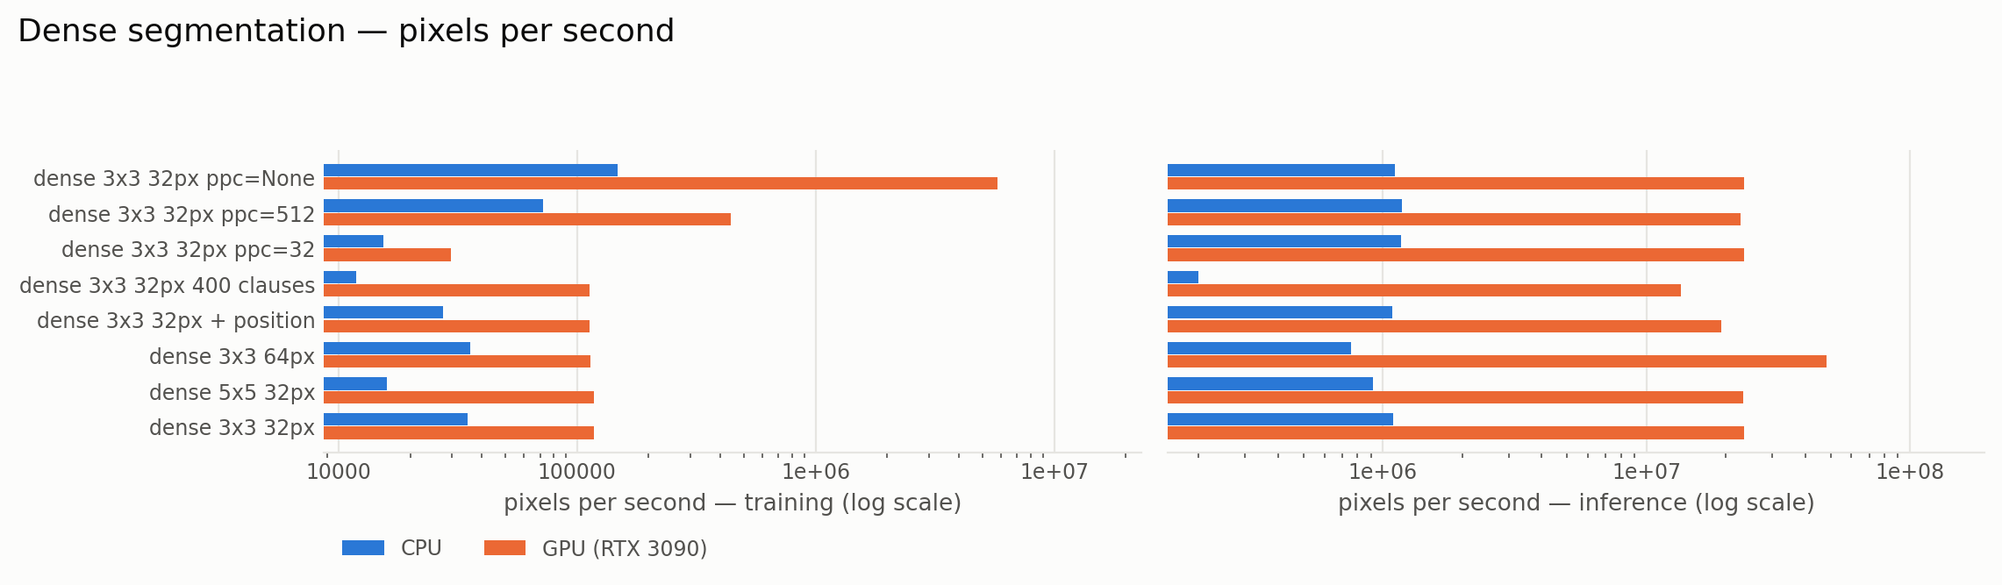
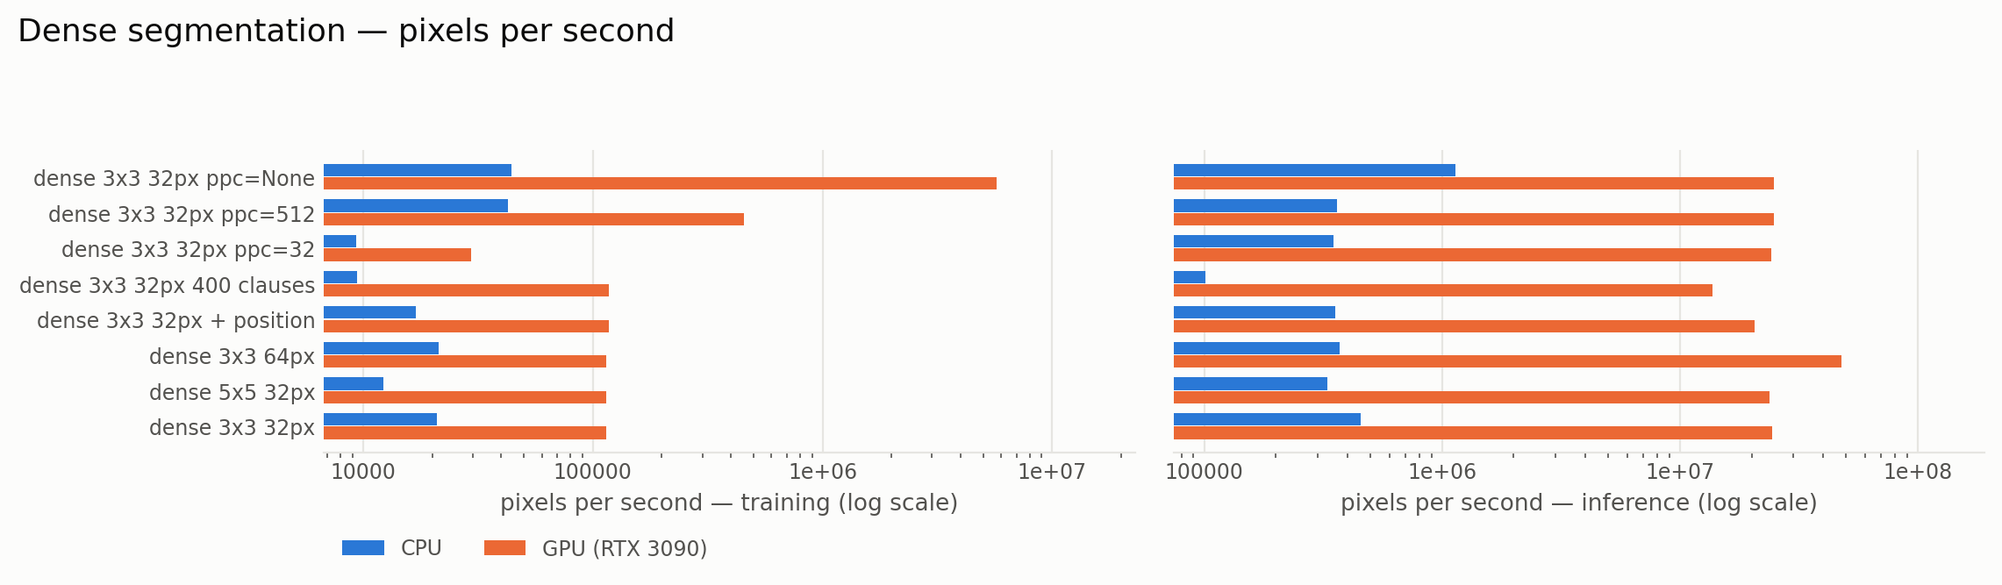
new benchmark

diff --git a/docs/cpu-vs-gpu.md b/docs/cpu-vs-gpu.md
@@ -10,9 +10,9 @@ Every number on this page comes from one run of `benchmarks/run_benchmarks.sh` o
 | GPU 0 | NVIDIA GeForce RTX 3090 |
 | GPU 1 | NVIDIA GeForce RTX 3080 |
 | PyTorch | 2.10.0+cu128 / CUDA 12.8 |
-| torchtsetlin | 0.3.1 |
+| torchtsetlin | 0.5.0 |
 | Python | 3.10.11 |
-| measured | 2026-10-12 21:40:39 |
+| measured | 2026-10-24 20:33:41 |
 
 
 !!! note "How to read these"
@@ -28,76 +28,76 @@ Every number on this page comes from one run of `benchmarks/run_benchmarks.sh` o
 ![Throughput vs batch size](assets/benchmarks/throughput-vs-batch.png#only-light)
 ![Throughput vs batch size](assets/benchmarks/throughput-vs-batch_dark.png#only-dark)
 
-One `update()` call touches every automaton in the machine, so its cost depends far more on the size of the machine than on how many examples are in the batch. Feeding the GPU more examples per call is therefore nearly free: training throughput rises from 427 examples/s at batch 1 to 220,028 at batch 4096. At batch 256 the same model trains 87,869 examples/s on the GPU against 406 on the CPU (216×).
+One `update()` call touches every automaton in the machine, so its cost depends far more on the size of the machine than on how many examples are in the batch. Feeding the GPU more examples per call is therefore nearly free: training throughput rises from 415 examples/s at batch 1 to 217,571 at batch 4096. At batch 256 the same model trains 85,839 examples/s on the GPU against 3,808 on the CPU (23×).
 
-The Noisy-XOR scale machine in the bottom row is the counter-example: 20 clauses over 12 features is less work than a kernel launch, so only past batch 1024 does the GPU pull ahead. Small machines belong on the CPU.
+The Noisy-XOR scale machine in the bottom row is the counter-example: 20 clauses over 12 features is less work than a kernel launch, so only past batch 4 does the GPU pull ahead. Small machines belong on the CPU.
 
 ??? abstract "Batch size — MNIST scale (784 features, 500 clauses/class)"
 
     | batch | CPU train ex/s | GPU train ex/s | train speedup | CPU infer ex/s | GPU infer ex/s | infer speedup |
     |---|---|---|---|---|---|---|
-    | 1 | 14 | 427 | 30.5× | 598 | 4,196 | 7.0× |
-    | 2 | 25 | 863 | 34.2× | 4,704 | 8,182 | 1.7× |
-    | 4 | 40 | 1,725 | 42.8× | 5,791 | 16,432 | 2.8× |
-    | 8 | 60 | 3,441 | 57.3× | 9,568 | 33,415 | 3.5× |
-    | 16 | 87 | 6,844 | 78.9× | 10,820 | 66,762 | 6.2× |
-    | 32 | 118 | 13,456 | 114.1× | 15,346 | 132,358 | 8.6× |
-    | 64 | 177 | 25,666 | 144.8× | 25,607 | 254,309 | 9.9× |
-    | 128 | 268 | 49,143 | 183.7× | 37,049 | 507,533 | 13.7× |
-    | 256 | 406 | 87,869 | 216.5× | 44,836 | 1,036,162 | 23.1× |
-    | 512 | 600 | 133,736 | 222.7× | 49,559 | 982,200 | 19.8× |
-    | 1,024 | 825 | 135,655 | 164.3× | 50,099 | 1,012,965 | 20.2× |
-    | 2,048 | 1,562 | 163,199 | 104.5× | 38,611 | 1,045,744 | 27.1× |
-    | 4,096 | 3,572 | 220,028 | 61.6× | 31,372 | 1,059,242 | 33.8× |
+    | 1 | 236 | 415 | 1.8× | 625 | 4,514 | 7.2× |
+    | 2 | 535 | 830 | 1.6× | 1,997 | 8,725 | 4.4× |
+    | 4 | 783 | 1,659 | 2.1× | 3,908 | 17,552 | 4.5× |
+    | 8 | 902 | 3,309 | 3.7× | 4,550 | 35,782 | 7.9× |
+    | 16 | 1,330 | 6,558 | 4.9× | 7,776 | 71,604 | 9.2× |
+    | 32 | 1,875 | 12,893 | 6.9× | 12,048 | 141,574 | 11.8× |
+    | 64 | 2,307 | 24,861 | 10.8× | 18,564 | 275,440 | 14.8× |
+    | 128 | 2,274 | 47,707 | 21.0× | 25,424 | 551,375 | 21.7× |
+    | 256 | 3,808 | 85,839 | 22.5× | 33,532 | 1,006,921 | 30.0× |
+    | 512 | 1,891 | 131,028 | 69.3× | 38,146 | 983,199 | 25.8× |
+    | 1,024 | 375 | 134,214 | 357.9× | 34,337 | 999,139 | 29.1× |
+    | 2,048 | 398 | 162,212 | 407.9× | 22,258 | 1,043,902 | 46.9× |
+    | 4,096 | 413 | 217,571 | 527.1× | 20,554 | 1,056,509 | 51.4× |
 
 ??? abstract "Batch size — Noisy-XOR scale (12 features, 10 clauses/class)"
 
     | batch | CPU train ex/s | GPU train ex/s | train speedup | CPU infer ex/s | GPU infer ex/s | infer speedup |
     |---|---|---|---|---|---|---|
-    | 1 | 2,005 | 856 | 0.4× | 9,060 | 4,243 | 0.5× |
-    | 4 | 7,668 | 3,425 | 0.4× | 32,932 | 16,843 | 0.5× |
-    | 16 | 27,988 | 13,306 | 0.5× | 127,638 | 66,415 | 0.5× |
-    | 64 | 101,867 | 53,237 | 0.5× | 485,903 | 261,939 | 0.5× |
-    | 256 | 342,488 | 212,026 | 0.6× | 1,661,668 | 1,043,140 | 0.6× |
-    | 1,024 | 814,544 | 844,508 | 1.0× | 4,119,959 | 4,189,408 | 1.0× |
+    | 1 | 914 | 842 | 0.9× | 9,118 | 4,490 | 0.5× |
+    | 4 | 3,247 | 3,374 | 1.0× | 31,705 | 17,955 | 0.6× |
+    | 16 | 12,563 | 13,471 | 1.1× | 121,723 | 71,267 | 0.6× |
+    | 64 | 47,768 | 53,734 | 1.1× | 464,140 | 282,078 | 0.6× |
+    | 256 | 137,059 | 214,356 | 1.6× | 1,553,292 | 1,128,060 | 0.7× |
+    | 1,024 | 322,342 | 856,844 | 2.7× | 3,751,614 | 4,507,826 | 1.2× |
 
 ## How much the GPU buys you
 
 ![How much the GPU buys you](assets/benchmarks/gpu-speedup.png#only-light)
 ![How much the GPU buys you](assets/benchmarks/gpu-speedup_dark.png#only-dark)
 
-The speedup is not one number. It grows with batch size because the CPU pays the per-clause cost serially while the GPU hides it, peaks at about 223× around batch 512, and falls back to 62× at batch 4096, where the CPU finally amortises its own vectorisation over a long batch. Inference behaves differently again: the CPU forward pass is already cheap, so the gap there tops out at 34× — worth having, but not the same kind of difference.
+The speedup is not one number. It grows with batch size because the CPU pays the per-clause cost serially while the GPU hides it, peaks at about 527× around batch 4096, and holds from there. Inference behaves differently again: the CPU forward pass is already cheap, so the gap there tops out at 51× — worth having, but not the same kind of difference.
 
 ## Throughput vs model size
 
 ![Throughput vs model size](assets/benchmarks/throughput-vs-model-size.png#only-light)
 ![Throughput vs model size](assets/benchmarks/throughput-vs-model-size_dark.png#only-dark)
 
-Both axes cost the same thing — the update is `n_clauses × 2 × n_features` element-wise work — so both curves fall roughly as `1/x`. The CPU falls off immediately; the GPU stays flat until the machine is big enough to fill it, which is why the gap *widens* with model size: 50× at 50 clauses/class against 273× at 4000; 69× at 128 features against 287× at 8192. Big machines are exactly the ones worth moving to a GPU.
+Both axes cost the same thing — the update is `n_clauses × 2 × n_features` element-wise work — so both curves fall roughly as `1/x`. The CPU falls off immediately; the GPU stays flat until the machine is big enough to fill it, which is why the gap *widens* with model size: 37× at 50 clauses/class against 23× at 4000; 22× at 128 features against 16× at 8192. Big machines are exactly the ones worth moving to a GPU.
 
 ??? abstract "Clause budget (784 features, batch 256)"
 
     | clauses/class | CPU train ex/s | GPU train ex/s | train speedup | CPU infer ex/s | GPU infer ex/s | infer speedup |
     |---|---|---|---|---|---|---|
-    | 50 | 4,317 | 214,398 | 49.7× | 270,425 | 1,035,221 | 3.8× |
-    | 100 | 2,171 | 193,714 | 89.2× | 198,824 | 1,033,967 | 5.2× |
-    | 250 | 843 | 131,802 | 156.3× | 101,325 | 1,041,135 | 10.3× |
-    | 500 | 411 | 88,661 | 215.9× | 45,514 | 1,002,631 | 22.0× |
-    | 1,000 | 196 | 50,089 | 255.6× | 16,232 | 536,367 | 33.0× |
-    | 2,000 | 96 | 25,917 | 268.6× | 5,185 | 260,242 | 50.2× |
-    | 4,000 | 48 | 13,162 | 272.7× | 2,176 | 132,661 | 61.0× |
+    | 50 | 5,590 | 209,061 | 37.4× | 238,356 | 1,108,202 | 4.6× |
+    | 100 | 12,312 | 189,082 | 15.4× | 157,397 | 1,105,896 | 7.0× |
+    | 250 | 5,928 | 126,883 | 21.4× | 68,018 | 1,104,184 | 16.2× |
+    | 500 | 3,832 | 84,393 | 22.0× | 33,363 | 1,014,205 | 30.4× |
+    | 1,000 | 1,736 | 48,920 | 28.2× | 14,576 | 535,050 | 36.7× |
+    | 2,000 | 828 | 25,678 | 31.0× | 5,992 | 259,310 | 43.3× |
+    | 4,000 | 558 | 13,099 | 23.5× | 2,024 | 132,470 | 65.5× |
 
 ??? abstract "Feature count (500 clauses/class, batch 256)"
 
     | features | CPU train ex/s | GPU train ex/s | train speedup | CPU infer ex/s | GPU infer ex/s | infer speedup |
     |---|---|---|---|---|---|---|
-    | 128 | 3,035 | 210,639 | 69.4× | 185,183 | 1,076,020 | 5.8× |
-    | 256 | 1,380 | 164,441 | 119.2× | 110,134 | 1,059,144 | 9.6× |
-    | 512 | 624 | 115,630 | 185.2× | 55,644 | 1,065,061 | 19.1× |
-    | 1,024 | 304 | 73,440 | 241.5× | 33,927 | 806,665 | 23.8× |
-    | 2,048 | 152 | 39,913 | 262.6× | 18,598 | 411,893 | 22.1× |
-    | 4,096 | 76 | 21,310 | 279.3× | 8,715 | 217,643 | 25.0× |
-    | 8,192 | 37 | 10,721 | 287.3× | 1,565 | 116,496 | 74.4× |
+    | 128 | 9,416 | 204,042 | 21.7× | 67,402 | 1,124,166 | 16.7× |
+    | 256 | 8,448 | 158,938 | 18.8× | 72,175 | 1,119,424 | 15.5× |
+    | 512 | 5,161 | 111,969 | 21.7× | 41,170 | 1,118,099 | 27.2× |
+    | 1,024 | 3,239 | 71,526 | 22.1× | 23,943 | 803,508 | 33.6× |
+    | 2,048 | 1,479 | 39,644 | 26.8× | 13,074 | 416,444 | 31.9× |
+    | 4,096 | 866 | 21,319 | 24.6× | 7,716 | 218,238 | 28.3× |
+    | 8,192 | 671 | 10,835 | 16.2× | 3,880 | 116,073 | 29.9× |
 
 ## The model zoo
 
@@ -110,106 +110,106 @@ Weighted and coalesced variants cost about what the plain machine costs: they ch
 
     | model | CPU train ex/s | GPU train ex/s | train speedup | CPU infer ex/s | GPU infer ex/s | infer speedup | GPU peak memory |
     |---|---|---|---|---|---|---|---|
-    | TsetlinMachine | 269 | 48,433 | 180× | 31,087 | 490,091 | 16× | 262 MB |
-    | TsetlinMachine (weighted) | 268 | 48,228 | 180× | 32,101 | 451,039 | 14× | 262 MB |
-    | CoalescedTsetlinMachine | 178 | 42,684 | 240× | 34,131 | 493,050 | 14× | 262 MB |
-    | RegressionTsetlinMachine | 215 | 56,935 | 265× | 42,894 | 541,666 | 13× | 262 MB |
-    | ConvTsetlinMachine | 559 | 14,722 | 26× | 710 | 24,822 | 35× | 182 MB |
-    | ConvCoalescedTsetlinMachine | 393 | 15,116 | 38× | 702 | 24,627 | 35× | 225 MB |
+    | TsetlinMachine | 2,300 | 47,317 | 21× | 25,871 | 533,196 | 21× | 239 MB |
+    | TsetlinMachine (weighted) | 3,126 | 46,895 | 15× | 23,241 | 492,731 | 21× | 239 MB |
+    | CoalescedTsetlinMachine | 138 | 41,680 | 303× | 22,909 | 535,160 | 23× | 239 MB |
+    | RegressionTsetlinMachine | 2,687 | 61,418 | 23× | 24,957 | 558,955 | 22× | 239 MB |
+    | ConvTsetlinMachine | 284 | 14,758 | 52× | 279 | 24,738 | 89× | 180 MB |
+    | ConvCoalescedTsetlinMachine | 230 | 14,980 | 65× | 274 | 24,542 | 90× | 223 MB |
 
 ## Where an update goes
 
 ![Where an update goes](assets/benchmarks/update-cost-breakdown.png#only-light)
 ![Where an update goes](assets/benchmarks/update-cost-breakdown_dark.png#only-dark)
 
-`apply_feedback` — the stochastic increment/decrement of the whole `(n_clauses, 2F)` automaton state — is the expensive part of an update: on the CPU it is 92 % of the 624.1 ms call; on the GPU it is 42 % of the 2.8 ms call. A standalone `torch.binomial` draw of the same `(C, 2F)` shape costs 266.48 ms on the CPU and 0.22 ms on the GPU — the single most expensive op in the commit. Everything before the commit (encoding, clause evaluation, the vote sums and the feedback count matmuls) is comparatively cheap. That is also why batching pays: a batched update draws once per commit, a sequential one draws once per example.
+`apply_feedback` — the stochastic increment/decrement of the whole `(n_clauses, 2F)` automaton state — is the expensive part of an update: on the CPU it is 24 % of the 54.6 ms call; on the GPU it is 43 % of the 2.9 ms call. A standalone `torch.binomial` draw of the same `(C, 2F)` shape costs 267.00 ms on the CPU and 0.22 ms on the GPU — the single most expensive op in the commit. Everything before the commit (encoding, clause evaluation, the vote sums and the feedback count matmuls) is comparatively cheap. That is also why batching pays: a batched update draws once per commit, a sequential one draws once per example.
 
 ??? abstract "Update cost breakdown (5 000 clauses, 784 features, batch 256)"
 
     | stage | cpu (ms) | cuda:0 (ms) |
     |---|---|---|
-    | encode | 0.080 | 0.037 |
-    | evaluate | 5.327 | 0.208 |
-    | votes+select | 8.032 | 0.501 |
-    | feedback_counts | 14.199 | 0.668 |
-    | accumulator_alloc | 15.683 | 0.114 |
-    | coerce_targets | 0.015 | 0.069 |
-    | apply_feedback | 574.483 | 1.210 |
-    | refresh_include | 14.542 | 0.267 |
-    | commit | 589.040 | 1.545 |
-    | torch.binomial (C x 2F) | 266.475 | 0.216 |
-    | **update() total** | **624.090** | **2.849** |
+    | encode | 0.064 | 0.036 |
+    | evaluate | 7.417 | 0.208 |
+    | votes+select | 7.652 | 0.482 |
+    | feedback_counts | 15.150 | 0.670 |
+    | accumulator_alloc | 3.840 | 0.115 |
+    | coerce_targets | 0.014 | 0.065 |
+    | apply_feedback | 13.000 | 1.253 |
+    | refresh_include | 14.324 | 0.240 |
+    | commit | 27.339 | 1.558 |
+    | torch.binomial (C x 2F) | 267.004 | 0.216 |
+    | **update() total** | **54.577** | **2.916** |
 
 ## CPU thread scaling
 
 ![CPU thread scaling](assets/benchmarks/cpu-threads.png#only-light)
 ![CPU thread scaling](assets/benchmarks/cpu-threads_dark.png#only-dark)
 
-More CPU threads buy surprisingly little in training: 1.3× going from 1 to 32 threads. The batched update is a chain of large element-wise ops over the state, and the binomial draw that dominates it does not thread. Inference scales much better (10.8× over the same range): the forward pass is one big matmul-shaped reduction. If a CPU run is too slow, the lever is the clause budget or the batch size, not `torch.set_num_threads`.
+More CPU threads buy surprisingly little in training: 2.4× going from 1 to 32 threads. The batched update is a chain of large element-wise ops over the state, and the binomial draw that dominates it does not thread. Inference scales much better (6.2× over the same range): the forward pass is one big matmul-shaped reduction. If a CPU run is too slow, the lever is the clause budget or the batch size, not `torch.set_num_threads`.
 
 ??? abstract "CPU thread scaling (5 000 clauses, 784 features, batch 256)"
 
     | threads | train ex/s | infer ex/s |
     |---|---|---|
-    | 1 | 288 | 4,422 |
-    | 2 | 341 | 7,608 |
-    | 4 | 370 | 13,011 |
-    | 8 | 397 | 28,373 |
-    | 16 | 409 | 46,742 |
-    | 32 | 376 | 47,690 |
+    | 1 | 750 | 4,726 |
+    | 2 | 1,572 | 9,154 |
+    | 4 | 2,103 | 11,366 |
+    | 8 | 3,889 | 24,811 |
+    | 16 | 4,827 | 33,126 |
+    | 32 | 1,778 | 29,404 |
 
 ## Batched vs sequential feedback
 
 ![Batched vs sequential feedback](assets/benchmarks/feedback-mode.png#only-light)
 ![Batched vs sequential feedback](assets/benchmarks/feedback-mode_dark.png#only-dark)
 
-`feedback_mode="sequential"` is the exact per-example algorithm: it commits once per example, so a mini-batch of 32 pays 32 commits instead of one. Measured at batch 32 that is 7-29× slower than the batched update, depending on the model scale and the device. Batching is the default for that reason — but it is an approximation, and its fidelity degrades as the batch grows. See [Batched vs sequential feedback](concepts/batching.md) for the accuracy side of this trade.
+`feedback_mode="sequential"` is the exact per-example algorithm: it commits once per example, so a mini-batch of 32 pays 32 commits instead of one. Measured at batch 32 that is 7-72× slower than the batched update, depending on the model scale and the device. Batching is the default for that reason — but it is an approximation, and its fidelity degrades as the batch grows. See [Batched vs sequential feedback](concepts/batching.md) for the accuracy side of this trade.
 
 ??? abstract "Batched vs sequential feedback"
 
     | scale | feedback_mode | batch | device | examples/s | ms / update call |
     |---|---|---|---|---|---|
-    | mnist-1k | batch | 1 | cpu | 109 | 9.18 |
-    | mnist-1k | batch | 1 | cuda:0 | 829 | 1.21 |
-    | mnist-1k | batch | 32 | cpu | 678 | 47.18 |
-    | mnist-1k | batch | 32 | cuda:0 | 25,939 | 1.23 |
-    | mnist-1k | batch | 256 | cpu | 2,171 | 117.93 |
-    | mnist-1k | batch | 256 | cuda:0 | 192,806 | 1.33 |
-    | mnist-1k | sequential | 1 | cpu | 113 | 8.89 |
-    | mnist-1k | sequential | 1 | cuda:0 | 831 | 1.20 |
-    | mnist-1k | sequential | 32 | cpu | 92 | 346.36 |
-    | mnist-1k | sequential | 32 | cuda:0 | 957 | 33.46 |
-    | xor | batch | 1 | cpu | 1,982 | 0.50 |
-    | xor | batch | 1 | cuda:0 | 869 | 1.15 |
-    | xor | batch | 32 | cpu | 53,831 | 0.59 |
-    | xor | batch | 32 | cuda:0 | 27,736 | 1.15 |
-    | xor | batch | 256 | cpu | 339,139 | 0.75 |
-    | xor | batch | 256 | cuda:0 | 221,460 | 1.16 |
-    | xor | sequential | 1 | cpu | 2,007 | 0.50 |
-    | xor | sequential | 1 | cuda:0 | 873 | 1.15 |
-    | xor | sequential | 32 | cpu | 2,234 | 14.33 |
-    | xor | sequential | 32 | cuda:0 | 965 | 33.16 |
+    | mnist-1k | batch | 1 | cpu | 464 | 2.15 |
+    | mnist-1k | batch | 1 | cuda:0 | 826 | 1.21 |
+    | mnist-1k | batch | 32 | cpu | 3,068 | 10.43 |
+    | mnist-1k | batch | 32 | cuda:0 | 25,811 | 1.24 |
+    | mnist-1k | batch | 256 | cpu | 17,457 | 14.66 |
+    | mnist-1k | batch | 256 | cuda:0 | 187,961 | 1.36 |
+    | mnist-1k | sequential | 1 | cpu | 415 | 2.41 |
+    | mnist-1k | sequential | 1 | cuda:0 | 1,476 | 0.68 |
+    | mnist-1k | sequential | 32 | cpu | 457 | 70.07 |
+    | mnist-1k | sequential | 32 | cuda:0 | 1,905 | 16.80 |
+    | xor | batch | 1 | cpu | 910 | 1.10 |
+    | xor | batch | 1 | cuda:0 | 840 | 1.19 |
+    | xor | batch | 32 | cpu | 24,568 | 1.30 |
+    | xor | batch | 32 | cuda:0 | 26,698 | 1.20 |
+    | xor | batch | 256 | cpu | 133,759 | 1.91 |
+    | xor | batch | 256 | cuda:0 | 213,251 | 1.20 |
+    | xor | sequential | 1 | cpu | 1,010 | 0.99 |
+    | xor | sequential | 1 | cuda:0 | 374 | 2.67 |
+    | xor | sequential | 32 | cpu | 893 | 35.82 |
+    | xor | sequential | 32 | cuda:0 | 369 | 86.76 |
 
 ## Where the data lives
 
-Keeping the Boolean dataset in host memory and copying each mini-batch across costs at most 1 % of throughput here — the update is long enough to hide the transfer. So stream a dataset that does not fit in VRAM without worrying, but do hand the *model* a device tensor: see [Choosing a device](getting-started/devices.md) for the one copy that does bite (Booleanization encoders keep their thresholds on the CPU).
+Keeping the Boolean dataset in host memory and copying each mini-batch across costs at most 2 % of throughput here — the update is long enough to hide the transfer. So stream a dataset that does not fit in VRAM without worrying, but do hand the *model* a device tensor: see [Choosing a device](getting-started/devices.md) for the one copy that does bite (Booleanization encoders keep their thresholds on the CPU).
 
 ??? abstract "Host- vs device-resident data (training, 784 features, 500 clauses/class)"
 
     | device | batch | dataset lives on | examples/s | ms / update |
     |---|---|---|---|---|
-    | cpu | 32 | device | 119 | 269.80 |
-    | cpu | 32 | host | 118 | 270.09 |
-    | cpu | 256 | device | 407 | 629.42 |
-    | cpu | 256 | host | 410 | 625.02 |
-    | cpu | 2048 | device | 1,530 | 1,338.58 |
-    | cpu | 2048 | host | 1,550 | 1,321.30 |
-    | cuda:0 | 32 | device | 13,358 | 2.40 |
-    | cuda:0 | 32 | host | 13,379 | 2.39 |
-    | cuda:0 | 256 | device | 88,270 | 2.90 |
-    | cuda:0 | 256 | host | 87,406 | 2.93 |
-    | cuda:0 | 2048 | device | 164,467 | 12.45 |
-    | cuda:0 | 2048 | host | 162,524 | 12.60 |
+    | cpu | 32 | device | 1,630 | 19.63 |
+    | cpu | 32 | host | 1,830 | 17.49 |
+    | cpu | 256 | device | 3,973 | 64.43 |
+    | cpu | 256 | host | 4,128 | 62.01 |
+    | cpu | 2048 | device | 398 | 5,142.80 |
+    | cpu | 2048 | host | 397 | 5,159.74 |
+    | cuda:0 | 32 | device | 12,776 | 2.50 |
+    | cuda:0 | 32 | host | 12,746 | 2.51 |
+    | cuda:0 | 256 | device | 85,294 | 3.00 |
+    | cuda:0 | 256 | host | 84,361 | 3.03 |
+    | cuda:0 | 2048 | device | 162,825 | 12.58 |
+    | cuda:0 | 2048 | host | 160,027 | 12.80 |
 
 ## Dense segmentation
 
@@ -218,21 +218,21 @@ Keeping the Boolean dataset in host memory and copying each mini-batch across co
 
 Dense prediction evaluates one patch per **pixel**, so throughput is quoted in pixels per second rather than examples per second — one 32×32 image is 1 024 examples.
 
-- A 3×3 dense model on 32×32 inputs runs at 34,942 px/s training and 1,092,082 px/s predicting on CPU — prediction is roughly 31× cheaper, because it never draws feedback or touches the automata.
-- `patches_per_commit` is the price of fidelity: committing once per batch reaches 147,761 px/s against 34,942 at the default 128, a 4.2× speedup that costs real accuracy (see the segmentation guide's ablation).
+- A 3×3 dense model on 32×32 inputs runs at 20,892 px/s training and 452,519 px/s predicting on CPU — prediction is roughly 22× cheaper, because it never draws feedback or touches the automata.
+- `patches_per_commit` is the price of fidelity: committing once per batch reaches 44,174 px/s against 20,892 at the default 128, a 2.1× speedup that costs real accuracy (see the segmentation guide's ablation).
 
 ??? abstract "Dense segmentation (4 planes, 4 classes, batch 8 images)"
 
     | configuration | patches/commit | CPU train px/s | GPU train px/s | train speedup | CPU infer px/s | GPU infer px/s | infer speedup |
     |---|---|---|---|---|---|---|---|
-    | dense 3x3 32px | 128 | 34,942 | 117,649 | 3× | 1,092,082 | 23,409,547 | 21× |
-    | dense 5x5 32px | 128 | 15,909 | 117,856 | 7× | 913,850 | 23,320,156 | 26× |
-    | dense 3x3 64px | 128 | 35,587 | 113,464 | 3× | 756,434 | 48,090,961 | 64× |
-    | dense 3x3 32px + position | 128 | 27,498 | 113,179 | 4× | 1,082,538 | 19,173,991 | 18× |
-    | dense 3x3 32px 400 clauses | 128 | 11,843 | 112,511 | 10× | 200,035 | 13,487,900 | 67× |
-    | dense 3x3 32px ppc=32 | 32 | 15,467 | 29,651 | 2× | 1,171,982 | 23,386,595 | 20× |
-    | dense 3x3 32px ppc=512 | 512 | 72,166 | 439,624 | 6× | 1,179,878 | 22,758,744 | 19× |
-    | dense 3x3 32px ppc=None | all | 147,761 | 5,791,600 | 39× | 1,109,169 | 23,533,208 | 21× |
+    | dense 3x3 32px | 128 | 20,892 | 114,131 | 5× | 452,519 | 24,368,662 | 54× |
+    | dense 5x5 32px | 128 | 12,223 | 114,916 | 9× | 328,773 | 23,832,398 | 72× |
+    | dense 3x3 64px | 128 | 21,298 | 114,637 | 5× | 370,711 | 47,848,316 | 129× |
+    | dense 3x3 32px + position | 128 | 17,057 | 117,072 | 7× | 354,432 | 20,511,574 | 58× |
+    | dense 3x3 32px 400 clauses | 128 | 9,420 | 117,108 | 12× | 101,068 | 13,746,665 | 136× |
+    | dense 3x3 32px ppc=32 | 32 | 9,312 | 29,459 | 3× | 349,626 | 24,282,506 | 69× |
+    | dense 3x3 32px ppc=512 | 512 | 42,711 | 456,914 | 11× | 361,504 | 24,741,736 | 68× |
+    | dense 3x3 32px ppc=None | all | 44,174 | 5,723,489 | 130× | 1,134,485 | 24,779,353 | 22× |
 
 ## 3D convolution
 
@@ -241,20 +241,20 @@ Dense prediction evaluates one patch per **pixel**, so throughput is quoted in p
 
 A 3D convolutional machine evaluates every clause at every window position of a volume, so the cost scales with the number of positions `P = Pd·Ph·Pw`. Throughput is quoted in volumes per second.
 
-- On GPU (RTX 3090), a cardiac-sized 12×64×64 volume with a 3×7×7 window has 33,640 window positions and trains at 655.7 volumes/s; an in-plane stride of 2 cuts that to 8,410 positions and runs at 1,991.5 volumes/s (3.0×).
-- With 2 000 clauses one such volume no longer fits `max_chunk_elements`, so the patch axis is split automatically into blocks of 18,982 positions: peak memory 369 MB at 170.64 volumes/s, against 450 MB at 185.45 volumes/s when it is forced into one block. The output is identical (the OR over patches and the random-patch draw are exact under the split); with fewer clauses, ordinary batch chunking already respects the budget and blocking buys nothing.
+- On GPU (RTX 3090), a cardiac-sized 12×64×64 volume with a 3×7×7 window has 33,640 window positions and trains at 651.9 volumes/s; an in-plane stride of 2 cuts that to 8,410 positions and runs at 1,978.9 volumes/s (3.0×).
+- With 2 000 clauses one such volume no longer fits `max_chunk_elements`, so the patch axis is split automatically into blocks of 18,982 positions: peak memory 366 MB at 171.18 volumes/s, against 447 MB at 186.38 volumes/s when it is forced into one block. The output is identical (the OR over patches and the random-patch draw are exact under the split); with fewer clauses, ordinary batch chunking already respects the budget and blocking buys nothing.
 
 ??? abstract "3D convolution (1 plane; 2 x 100 clauses, batch 4 — or 10 x 200, batch 2)"
 
     | configuration | patches P | patches per block | CPU train vol/s | GPU train vol/s | train speedup | CPU infer vol/s | GPU infer vol/s | infer speedup | GPU peak memory (train) |
     |---|---|---|---|---|---|---|---|---|---|
-    | 8x32x32, 3x5x5 | 4,704 | 4,704 | 166.1 | 2,451.8 | 15× | 196.8 | 10,209.2 | 52× | 67 MB |
-    | 16x32x32, 3x5x5 | 10,976 | 10,976 | 64.1 | 2,054.6 | 32× | 69.2 | 4,760.6 | 69× | 147 MB |
-    | 12x64x64, 3x7x7, stride (1,2,2) | 8,410 | 8,410 | 61.6 | 1,991.5 | 32× | 63.6 | 4,422.9 | 70× | 153 MB |
-    | 12x64x64, 3x7x7 | 33,640 | 33,640 | 12.4 | 655.7 | 53× | 12.3 | 897.7 | 73× | 533 MB |
-    | 12x64x64, 3x7x7, 2000 clauses, one block | 33,640 | 33,640 | 4.5 | 185.4 | 42× | 4.5 | 205.6 | 46× | 450 MB |
-    | 12x64x64, 3x7x7, 2000 clauses, auto blocks | 33,640 | 18,982 | 4.1 | 170.6 | 41× | 4.4 | 197.9 | 45× | 369 MB |
-    | 12x64x64, 3x7x7, 2000 clauses, patches_per_chunk=2048 | 33,640 | 2,048 | 5.3 | 134.6 | 25× | 6.0 | 176.9 | 29× | 365 MB |
+    | 8x32x32, 3x5x5 | 4,704 | 4,704 | 118.2 | 2,511.9 | 21× | 137.6 | 10,513.0 | 76× | 67 MB |
+    | 16x32x32, 3x5x5 | 10,976 | 10,976 | 40.2 | 2,035.2 | 51× | 41.2 | 4,827.7 | 117× | 147 MB |
+    | 12x64x64, 3x7x7, stride (1,2,2) | 8,410 | 8,410 | 45.4 | 1,978.9 | 44× | 46.6 | 4,435.9 | 95× | 152 MB |
+    | 12x64x64, 3x7x7 | 33,640 | 33,640 | 9.7 | 651.9 | 67× | 9.0 | 897.3 | 99× | 532 MB |
+    | 12x64x64, 3x7x7, 2000 clauses, one block | 33,640 | 33,640 | 2.2 | 186.4 | 84× | 2.3 | 206.1 | 90× | 447 MB |
+    | 12x64x64, 3x7x7, 2000 clauses, auto blocks | 33,640 | 18,982 | 2.2 | 171.2 | 77× | 2.3 | 198.1 | 84× | 366 MB |
+    | 12x64x64, 3x7x7, 2000 clauses, patches_per_chunk=2048 | 33,640 | 2,048 | 2.3 | 135.2 | 59× | 2.3 | 177.5 | 77× | 362 MB |
 
 ## End to end: MNIST
 
@@ -263,8 +263,8 @@ A 3D convolutional machine evaluates every clause at every window position of a 
 
 Synthetic micro-benchmarks flatter whichever device wins the micro-benchmark, so here is the whole thing end to end, `Trainer.fit` included:
 
-- **ConvTsetlinMachine 200/class 10x10** — 0.7 s/epoch on the GPU vs 15 s on the CPU (22×), 80.4% test accuracy
-- **TsetlinMachine 500/class** — 1.5 s/epoch on the GPU vs 113 s on the CPU (74×), 95.5% test accuracy
+- **ConvTsetlinMachine 200/class 10x10** — 0.7 s/epoch on the GPU vs 37 s on the CPU (51×), 80.4% test accuracy
+- **TsetlinMachine 500/class** — 1.6 s/epoch on the GPU vs 13 s on the CPU (8×), 95.5% test accuracy
 
 Accuracy matches across devices to within run-to-run noise, as it should — only the wall clock moves. These are short runs at a modest clause budget; see [Benchmarks](benchmarks.md) for what longer runs reach.
 
@@ -272,10 +272,10 @@ Accuracy matches across devices to within run-to-run noise, as it should — onl
 
     | model | device | train examples | epochs | s / epoch | examples/s | test accuracy | GPU peak memory |
     |---|---|---|---|---|---|---|---|
-    | ConvTsetlinMachine 200/class 10x10 | cpu | 10,000 | 1 | 15.49 | 645 | 0.8470 | — |
-    | ConvTsetlinMachine 200/class 10x10 | cuda:0 | 10,000 | 1 | 0.70 | 14,196 | 0.8035 | 322 MB |
-    | TsetlinMachine 500/class | cpu | 60,000 | 3 | 113.45 | 529 | 0.9542 | — |
-    | TsetlinMachine 500/class | cuda:0 | 60,000 | 3 | 1.54 | 38,917 | 0.9548 | 316 MB |
+    | ConvTsetlinMachine 200/class 10x10 | cpu | 10,000 | 1 | 36.82 | 272 | 0.8010 | — |
+    | ConvTsetlinMachine 200/class 10x10 | cuda:0 | 10,000 | 1 | 0.72 | 13,924 | 0.8035 | 296 MB |
+    | TsetlinMachine 500/class | cpu | 60,000 | 3 | 13.03 | 4,603 | 0.9541 | — |
+    | TsetlinMachine 500/class | cuda:0 | 60,000 | 3 | 1.60 | 37,432 | 0.9547 | 293 MB |
 
 ## Reproducing
 
